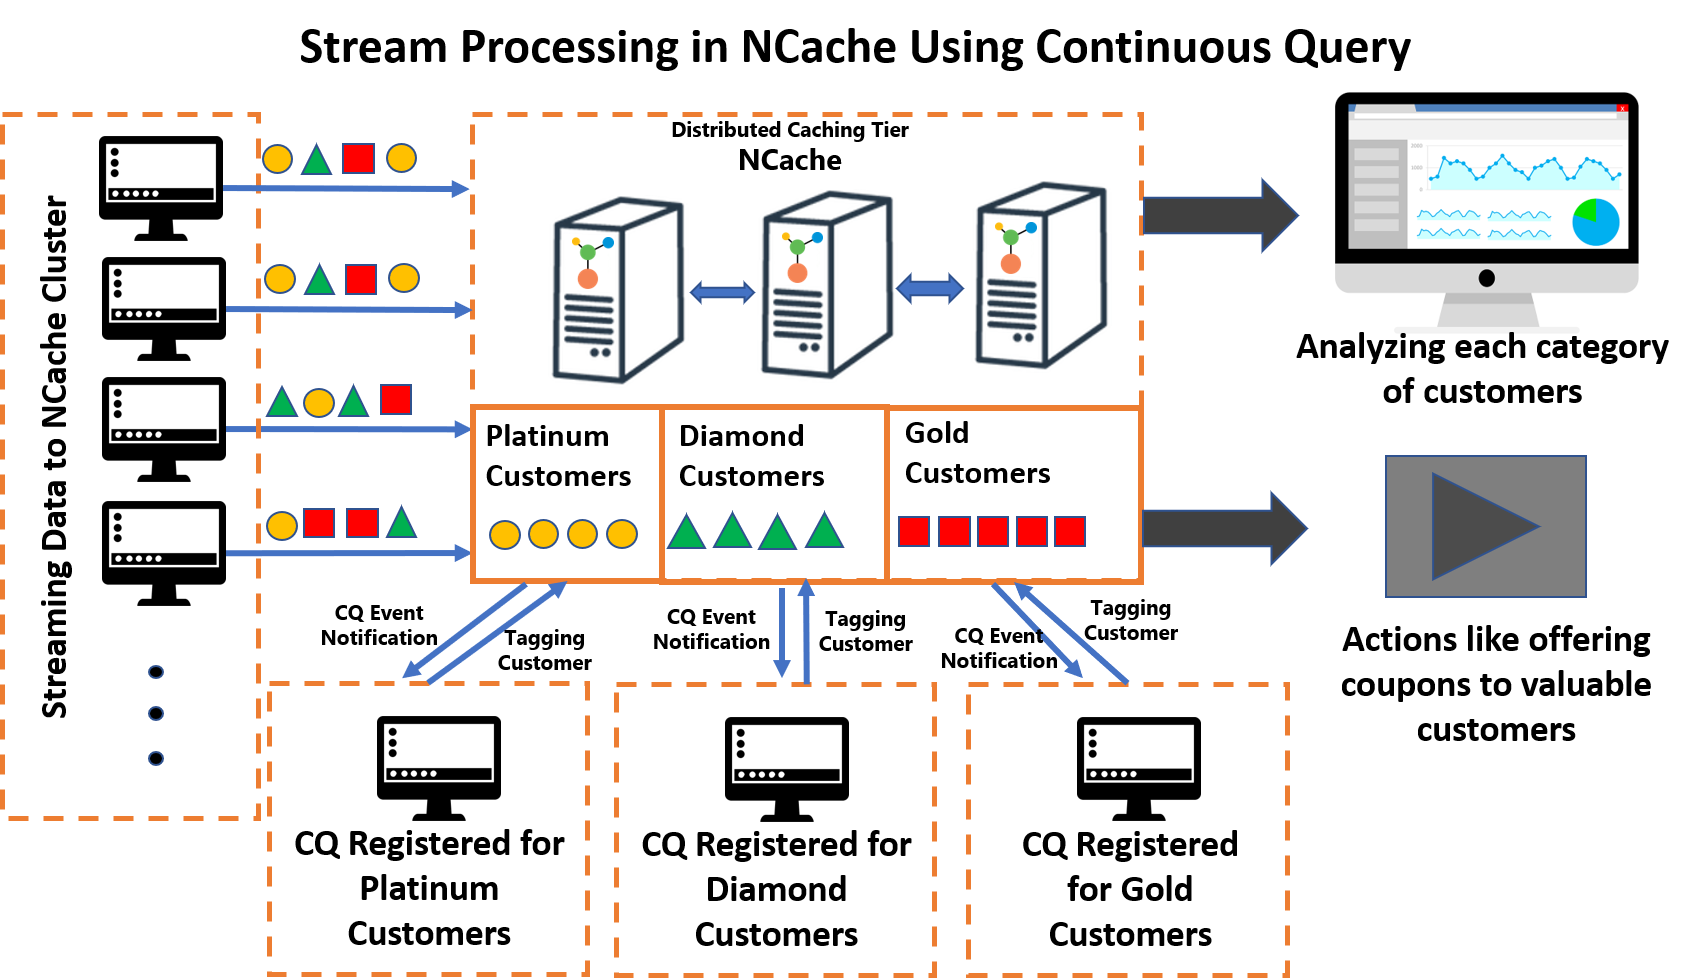
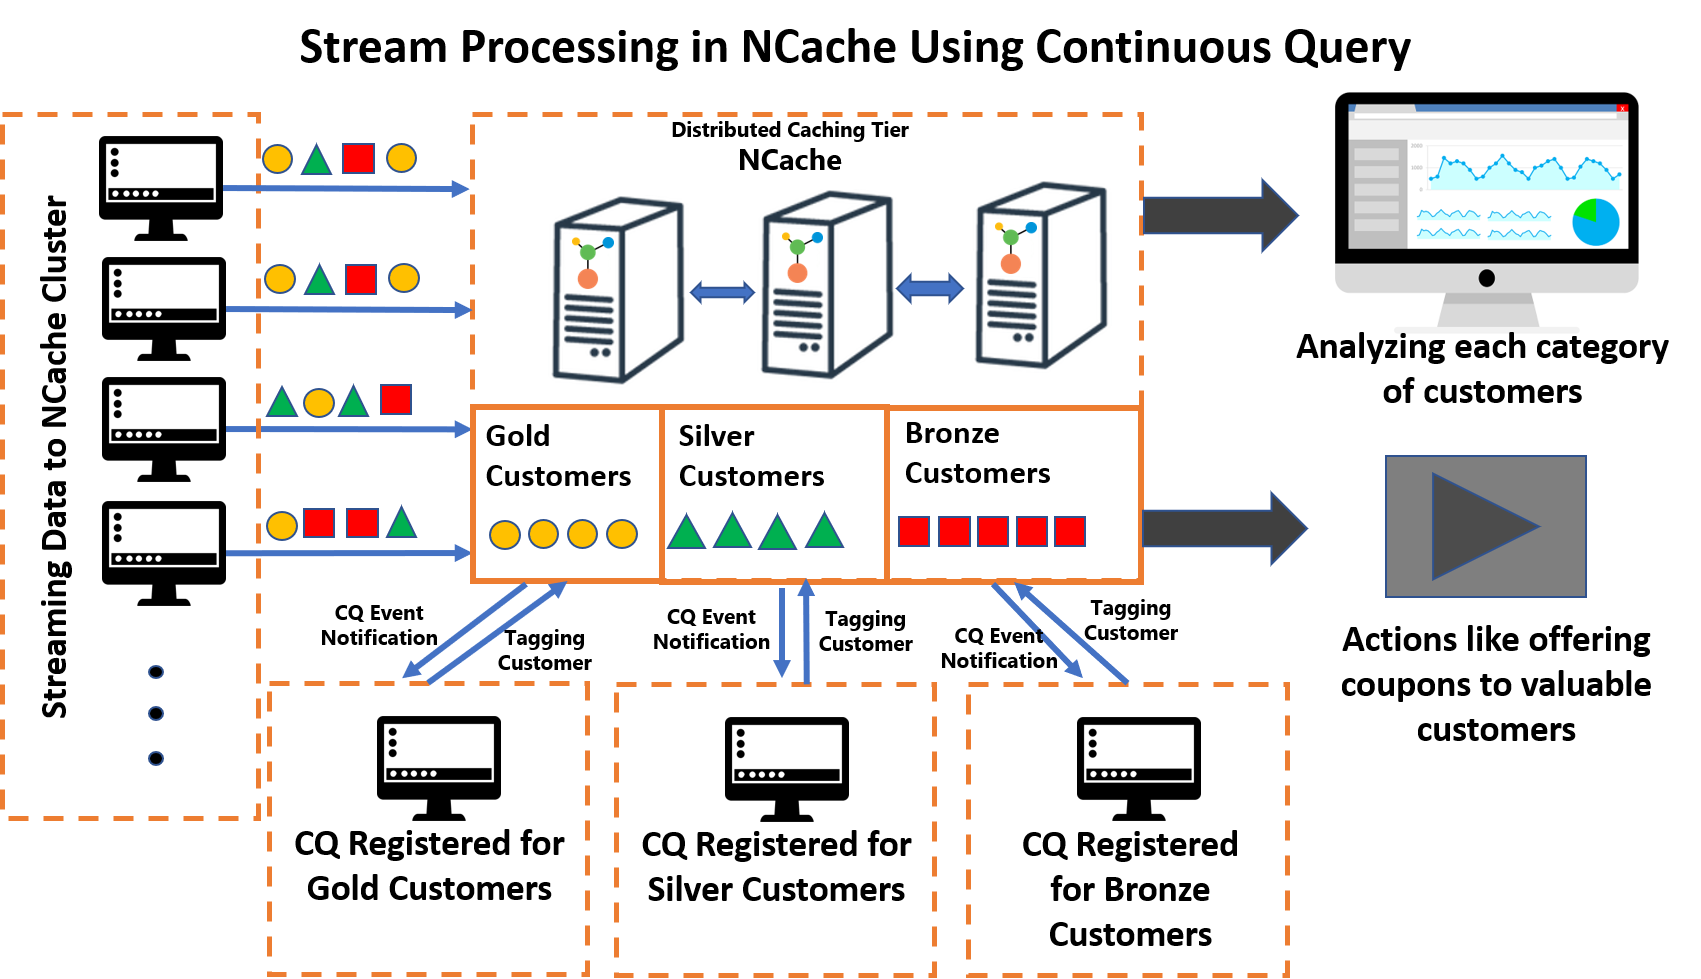
Changing Customer categories

diff --git a/StreamProcessing/src/StreamProcessingUI/MainApp.cs b/StreamProcessing/src/StreamProcessingUI/MainApp.cs
@@ -31,7 +31,7 @@ namespace Alachisoft.StreamProcessingUI
             Console.WriteLine("Cache Initialized");
 
         }
-        public void RegisterContinousQueryForPlatinumCustomers()
+        public void RegisterContinousQueryForGoldCustomers()
         {
             try
             {
@@ -41,116 +41,6 @@ namespace Alachisoft.StreamProcessingUI
 
                 var queryCommand = new QueryCommand(query);
                 queryCommand.Parameters.Add("OrdersCount", 10);
-
-                // Create Continuous Query
-                var cQuery = new ContinuousQuery(queryCommand);
-
-                // Item add notification 
-                // EventDataFilter.None returns the cache keys added
-                cQuery.RegisterNotification(new QueryDataNotificationCallback(QueryItemCallBackForPlatinumCustomers), EventType.ItemAdded, EventDataFilter.None);
-
-                // Register continuousQuery on server 
-                _cache.MessagingService.RegisterCQ(cQuery);
-                Console.WriteLine("Continous query registered");
-            }
-            catch (OperationFailedException ex)
-            {
-                if (ex.ErrorCode == NCacheErrorCodes.INCORRECT_FORMAT)
-                {
-                    // Make sure that the query format is correct
-                }
-                else
-                {
-                    // Exception can occur due to:
-                    // Connection Failures
-                    // Operation Timeout
-                    // Operation performed during state transfer
-                }
-            }
-            catch (Exception ex)
-            {
-                // Any generic exception like ArgumentException, ArgumentNullException
-            }
-
-        }
-
-        private void QueryItemCallBackForPlatinumCustomers(string key, CQEventArg arg)
-        {
-            var cacheItem = _cache.GetCacheItem(key);
-            cacheItem.Expiration = new Expiration(ExpirationType.None);
-            Tag[] tags = new Tag[1];
-            tags[0] = new Tag("PlatinumCustomers");
-            cacheItem.Tags = tags;
-            _cache.Insert(key, cacheItem);
-
-            ICollection<string> retrievedKeys = _cache.SearchService.GetKeysByTag(tags[0]);
-        }
-
-        public void RegisterContinousQueryForDiamondCustomers()
-        {
-            try
-            {
-                // Precondition: Cache is already connected
-
-                // Query for required operation
-                string query = "SELECT $VALUE$ FROM Models.Customer WHERE OrdersCount >= 7 AND OrdersCount < 10";
-
-                var queryCommand = new QueryCommand(query);
-
-                // Create Continuous Query
-                var cQuery = new ContinuousQuery(queryCommand);
-
-                // Item add notification 
-                // EventDataFilter.None returns the cache keys added
-                cQuery.RegisterNotification(new QueryDataNotificationCallback(QueryItemCallBackForDiamondCustomers), EventType.ItemAdded, EventDataFilter.None);
-
-                // Register continuousQuery on server 
-                _cache.MessagingService.RegisterCQ(cQuery);
-                Console.WriteLine("Continous query registered");
-            }
-            catch (OperationFailedException ex)
-            {
-                if (ex.ErrorCode == NCacheErrorCodes.INCORRECT_FORMAT)
-                {
-                    // Make sure that the query format is correct
-                }
-                else
-                {
-                    // Exception can occur due to:
-                    // Connection Failures
-                    // Operation Timeout
-                    // Operation performed during state transfer
-                }
-            }
-            catch (Exception ex)
-            {
-                // Any generic exception like ArgumentException, ArgumentNullException
-            }
-
-        }
-
-        private void QueryItemCallBackForDiamondCustomers(string key, CQEventArg arg)
-        {
-            var cacheItem = _cache.GetCacheItem(key);
-            cacheItem.Expiration = new Expiration(ExpirationType.None);
-            Tag[] tags = new Tag[1];
-            tags[0] = new Tag("DiamondCustomers");
-            cacheItem.Tags = tags;
-            _cache.Insert(key, cacheItem);
-
-            ICollection<string> retrievedKeys = _cache.SearchService.GetKeysByTag(tags[0]);
-        }
-
-        public void RegisterContinousQueryForGoldCustomers()
-        {
-            try
-            {
-                // Precondition: Cache is already connected
-
-                // Query for required operation
-                string query = "SELECT $VALUE$ FROM Models.Customer WHERE OrdersCount >= 4 AND OrdersCount < 7";
-
-                var queryCommand = new QueryCommand(query);
 
                 // Create Continuous Query
                 var cQuery = new ContinuousQuery(queryCommand);
@@ -196,16 +86,126 @@ namespace Alachisoft.StreamProcessingUI
             ICollection<string> retrievedKeys = _cache.SearchService.GetKeysByTag(tags[0]);
         }
 
+        public void RegisterContinousQueryForSilverCustomers()
+        {
+            try
+            {
+                // Precondition: Cache is already connected
+
+                // Query for required operation
+                string query = "SELECT $VALUE$ FROM Models.Customer WHERE OrdersCount >= 7 AND OrdersCount < 10";
+
+                var queryCommand = new QueryCommand(query);
+
+                // Create Continuous Query
+                var cQuery = new ContinuousQuery(queryCommand);
+
+                // Item add notification 
+                // EventDataFilter.None returns the cache keys added
+                cQuery.RegisterNotification(new QueryDataNotificationCallback(QueryItemCallBackForSilverCustomers), EventType.ItemAdded, EventDataFilter.None);
+
+                // Register continuousQuery on server 
+                _cache.MessagingService.RegisterCQ(cQuery);
+                Console.WriteLine("Continous query registered");
+            }
+            catch (OperationFailedException ex)
+            {
+                if (ex.ErrorCode == NCacheErrorCodes.INCORRECT_FORMAT)
+                {
+                    // Make sure that the query format is correct
+                }
+                else
+                {
+                    // Exception can occur due to:
+                    // Connection Failures
+                    // Operation Timeout
+                    // Operation performed during state transfer
+                }
+            }
+            catch (Exception ex)
+            {
+                // Any generic exception like ArgumentException, ArgumentNullException
+            }
+
+        }
+
+        private void QueryItemCallBackForSilverCustomers(string key, CQEventArg arg)
+        {
+            var cacheItem = _cache.GetCacheItem(key);
+            cacheItem.Expiration = new Expiration(ExpirationType.None);
+            Tag[] tags = new Tag[1];
+            tags[0] = new Tag("SilverCustomers");
+            cacheItem.Tags = tags;
+            _cache.Insert(key, cacheItem);
+
+            ICollection<string> retrievedKeys = _cache.SearchService.GetKeysByTag(tags[0]);
+        }
+
+        public void RegisterContinousQueryForBronzeCustomers()
+        {
+            try
+            {
+                // Precondition: Cache is already connected
+
+                // Query for required operation
+                string query = "SELECT $VALUE$ FROM Models.Customer WHERE OrdersCount >= 4 AND OrdersCount < 7";
+
+                var queryCommand = new QueryCommand(query);
+
+                // Create Continuous Query
+                var cQuery = new ContinuousQuery(queryCommand);
+
+                // Item add notification 
+                // EventDataFilter.None returns the cache keys added
+                cQuery.RegisterNotification(new QueryDataNotificationCallback(QueryItemCallBackForBronzeCustomers), EventType.ItemAdded, EventDataFilter.None);
+
+                // Register continuousQuery on server 
+                _cache.MessagingService.RegisterCQ(cQuery);
+                Console.WriteLine("Continous query registered");
+            }
+            catch (OperationFailedException ex)
+            {
+                if (ex.ErrorCode == NCacheErrorCodes.INCORRECT_FORMAT)
+                {
+                    // Make sure that the query format is correct
+                }
+                else
+                {
+                    // Exception can occur due to:
+                    // Connection Failures
+                    // Operation Timeout
+                    // Operation performed during state transfer
+                }
+            }
+            catch (Exception ex)
+            {
+                // Any generic exception like ArgumentException, ArgumentNullException
+            }
+
+        }
+
+        private void QueryItemCallBackForBronzeCustomers(string key, CQEventArg arg)
+        {
+            var cacheItem = _cache.GetCacheItem(key);
+            cacheItem.Expiration = new Expiration(ExpirationType.None);
+            Tag[] tags = new Tag[1];
+            tags[0] = new Tag("BronzeCustomers");
+            cacheItem.Tags = tags;
+            _cache.Insert(key, cacheItem);
+
+            ICollection<string> retrievedKeys = _cache.SearchService.GetKeysByTag(tags[0]);
+        }
+
         private void PrintValuableCustomersCount()
         {
             while (true)
             {
                 Console.Clear();
-                ICollection<string> retrievedKeys = _cache.SearchService.GetKeysByTag(new Tag("PlatinumCustomers"));
+                ICollection<string> retrievedKeys = _cache.SearchService.GetKeysByTag(new Tag("GoldCustomers"));
                 Console.WriteLine("Platinum Customers Count:{0}", retrievedKeys.Count);
-                retrievedKeys = _cache.SearchService.GetKeysByTag(new Tag("DiamondCustomers"));
+                retrievedKeys = _cache.SearchService.GetKeysByTag(new Tag("SilverCustomers"));
                 Console.WriteLine("Diamond Customers Count:{0}", retrievedKeys.Count);
-                retrievedKeys = _cache.SearchService.GetKeysByTag(new Tag("GoldCustomers"));
+                retrievedKeys = _cache.SearchService.GetKeysByTag(new Tag("BronzeCustomers"));
                 Console.WriteLine("Gold Customers Count:{0}", retrievedKeys.Count);
 
                 Thread.Sleep(3000);
@@ -215,9 +215,9 @@ namespace Alachisoft.StreamProcessingUI
         public void Run()
         {
             InitializeParameters();
-            RegisterContinousQueryForPlatinumCustomers();
-            RegisterContinousQueryForDiamondCustomers();
             RegisterContinousQueryForGoldCustomers();
+            RegisterContinousQueryForSilverCustomers();
+            RegisterContinousQueryForBronzeCustomers();
 
             Thread printThread = new Thread(PrintValuableCustomersCount);
             printThread.Start();

diff --git a/StreamProcessing/README.md b/StreamProcessing/README.md
@@ -60,9 +60,9 @@ Following is an explanation to the working of different parts of stream processi
 2.	StreamToNCache will push customers data into cache.
 Customers data that is being streamed in NCache has expiration if 15 secs and it consist of 4 categories.
 •	Customer with orders less than 4 which are less valuable customers (no need to retain those customers data in Cache).
-•	Customer with orders greater than 4 and less than 7 which are valuable customers and tagged with “Gold Customers” (Data retained by removing expiration).
-•	Customer with orders greater than 6 and less than 10 which are more valuable customers and tagged with “Diamond Customers” (Data retained by removing expiration).
-•	Customer with orders greater than 9 which are most valuable customers and tagged with “Platinum Customers” (Data retained by removing expiration).
+•	Customer with orders greater than 4 and less than 7 which are valuable customers and tagged with “Bronze Customers” (Data retained by removing expiration).
+•	Customer with orders greater than 6 and less than 10 which are more valuable customers and tagged with “Silver Customers” (Data retained by removing expiration).
+•	Customer with orders greater than 9 which are most valuable customers and tagged with “Gold Customers” (Data retained by removing expiration).
 As the customers data is being tagged according to their importance we can easily do the analysis and change strategy by providing coupons to and discounts to increase business.
 
 
